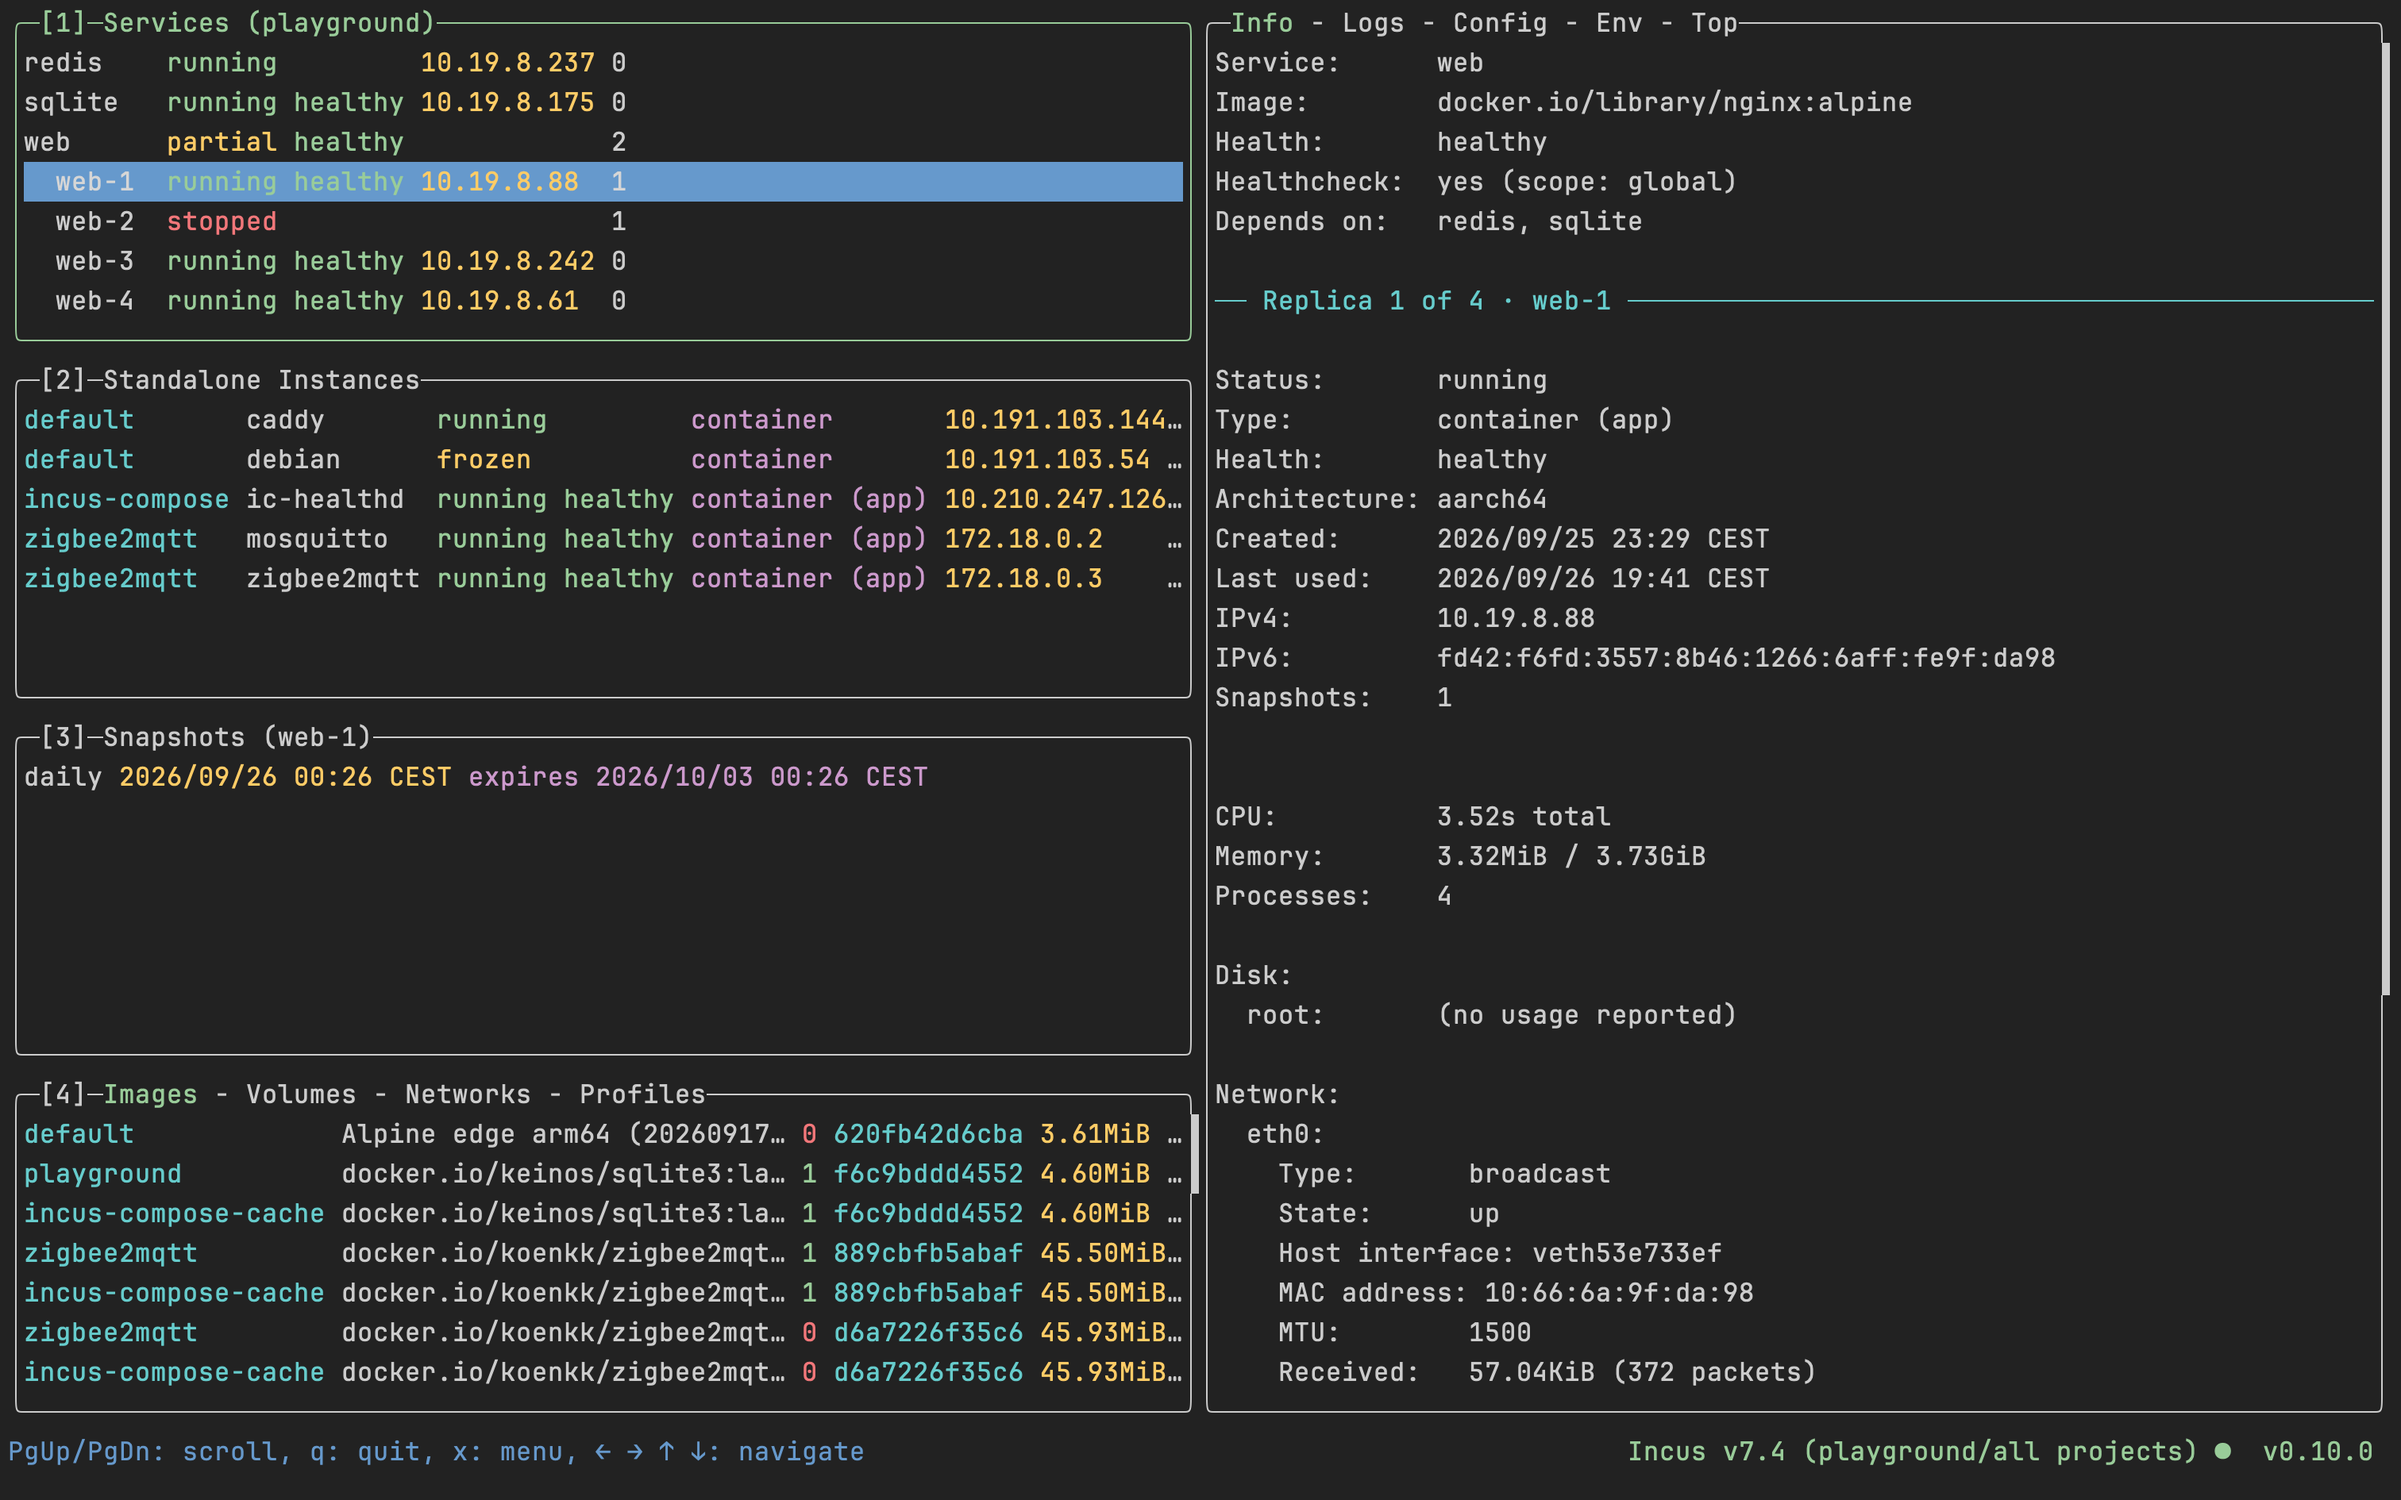
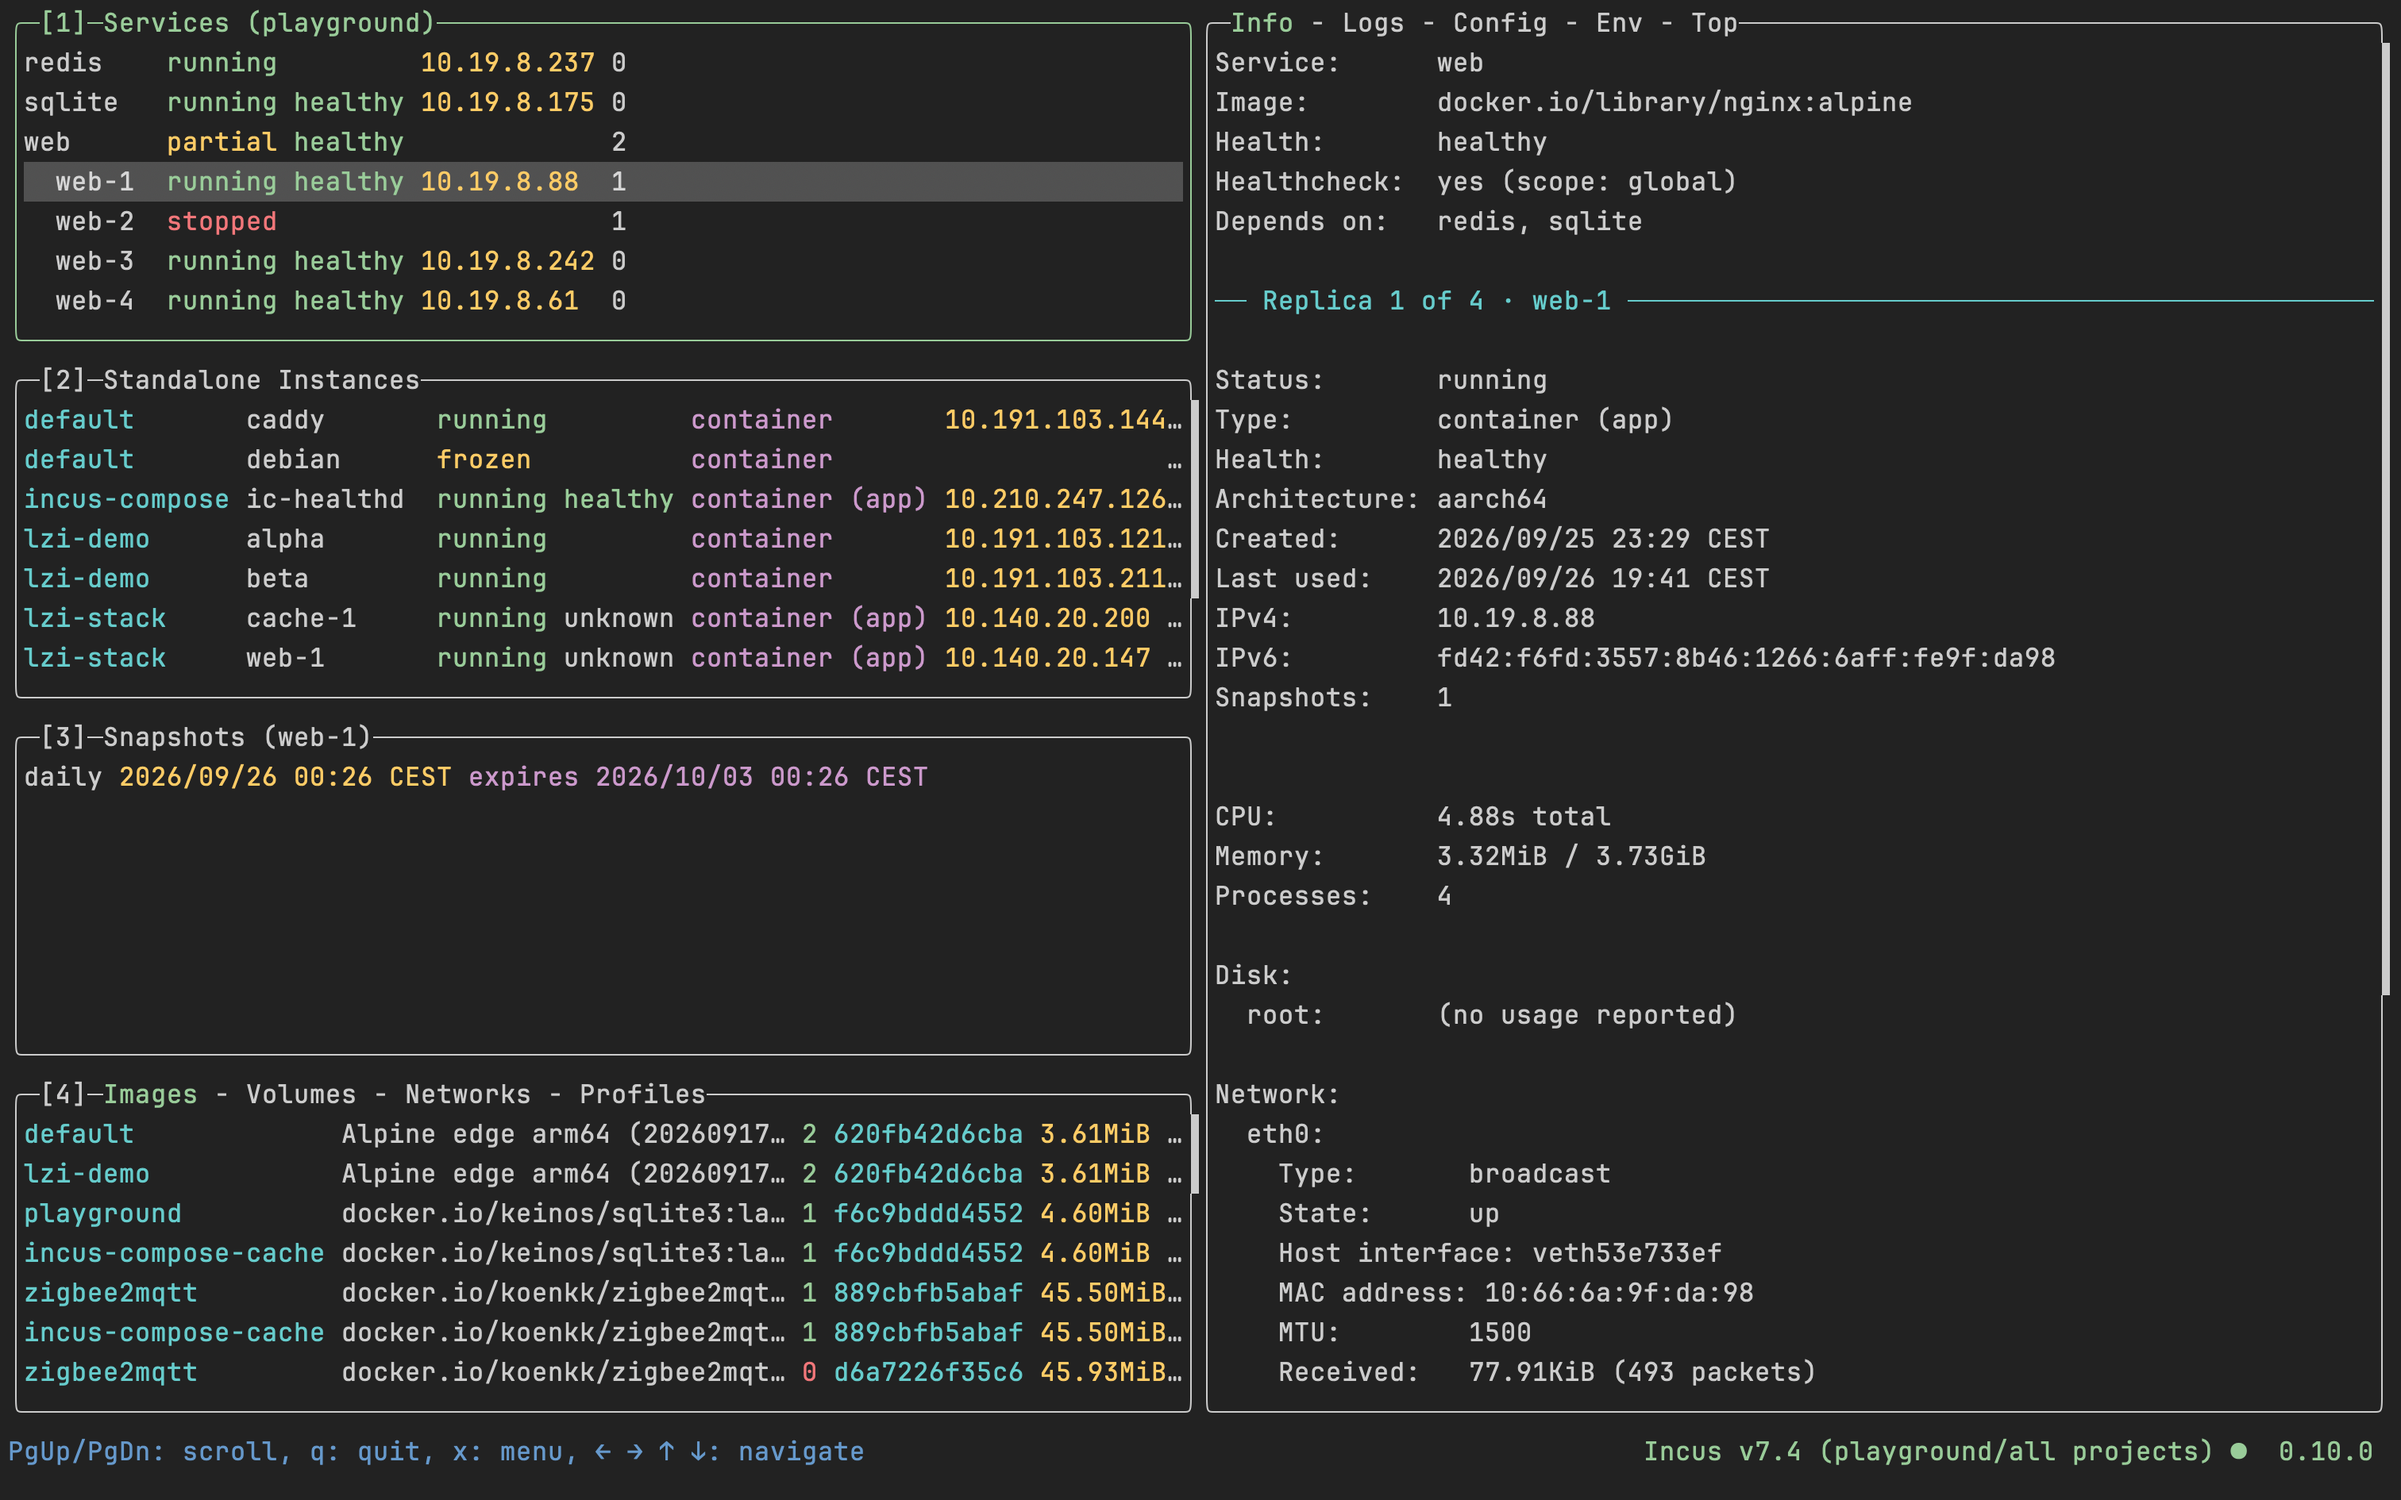
Show the highlights gif in the README, linked to the full walkthrough
The screenshot stays in docs/, refreshed and optimised, but out of the
README.

diff --git a/README.md b/README.md
@@ -24,7 +24,10 @@ See [LICENSE](LICENSE) (MIT, same as upstream),
 attributions, and [docs/Port.md](docs/Port.md) for what was carried over and
 how it was renamed.
 
-![lazyincus — a terminal UI for Incus, showing a compose stack's services and their replicas](docs/screenshot.png)
+[![lazyincus — a terminal UI for Incus: moving between a compose stack's services and replicas, the main panel's tabs, stopping an instance, a shell inside one, and pausing a service](docs/highlights.gif)](https://asciinema.org/a/x7AngHEyxBAToCaw)
+
+[Watch every key in action](https://asciinema.org/a/x7AngHEyxBAToCaw) — a
+six-minute walkthrough on asciinema.org.
 
 ## Status
 
